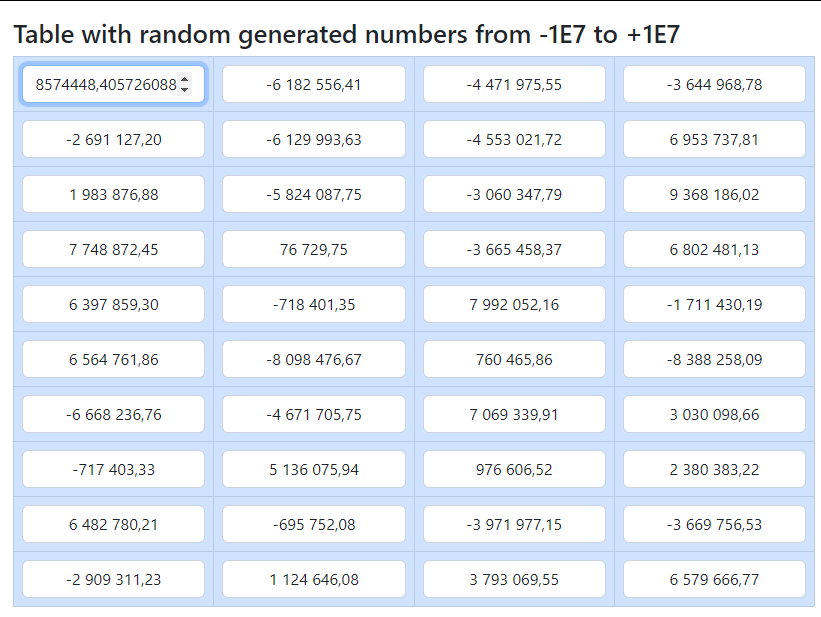
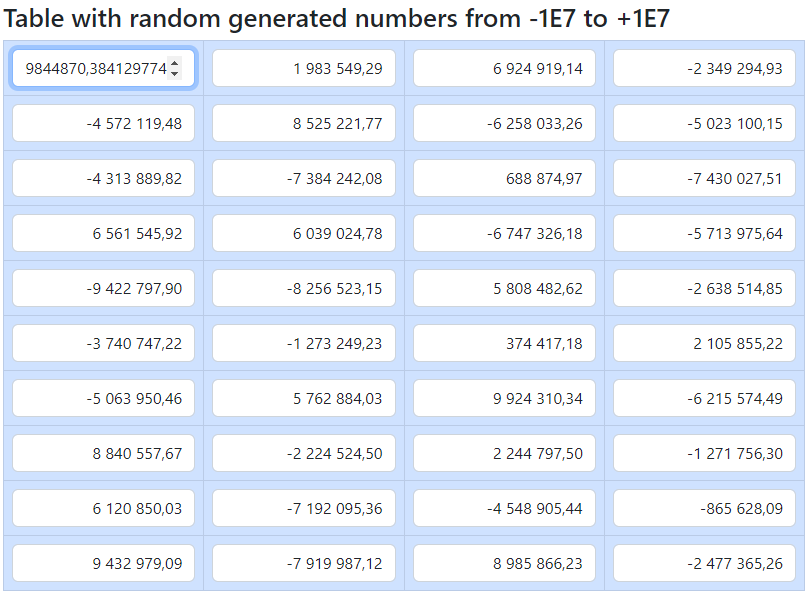
numbers in tables aligned to right Correct image for EN locale

diff --git a/README.md b/README.md
@@ -18,7 +18,7 @@
 
 ### Bootstrap table, English locale, first field edited
 
-![Table, first item is edited](table_cs.png)
+![Table, first item is edited](table_en.png)
 
 ## Installation
 
